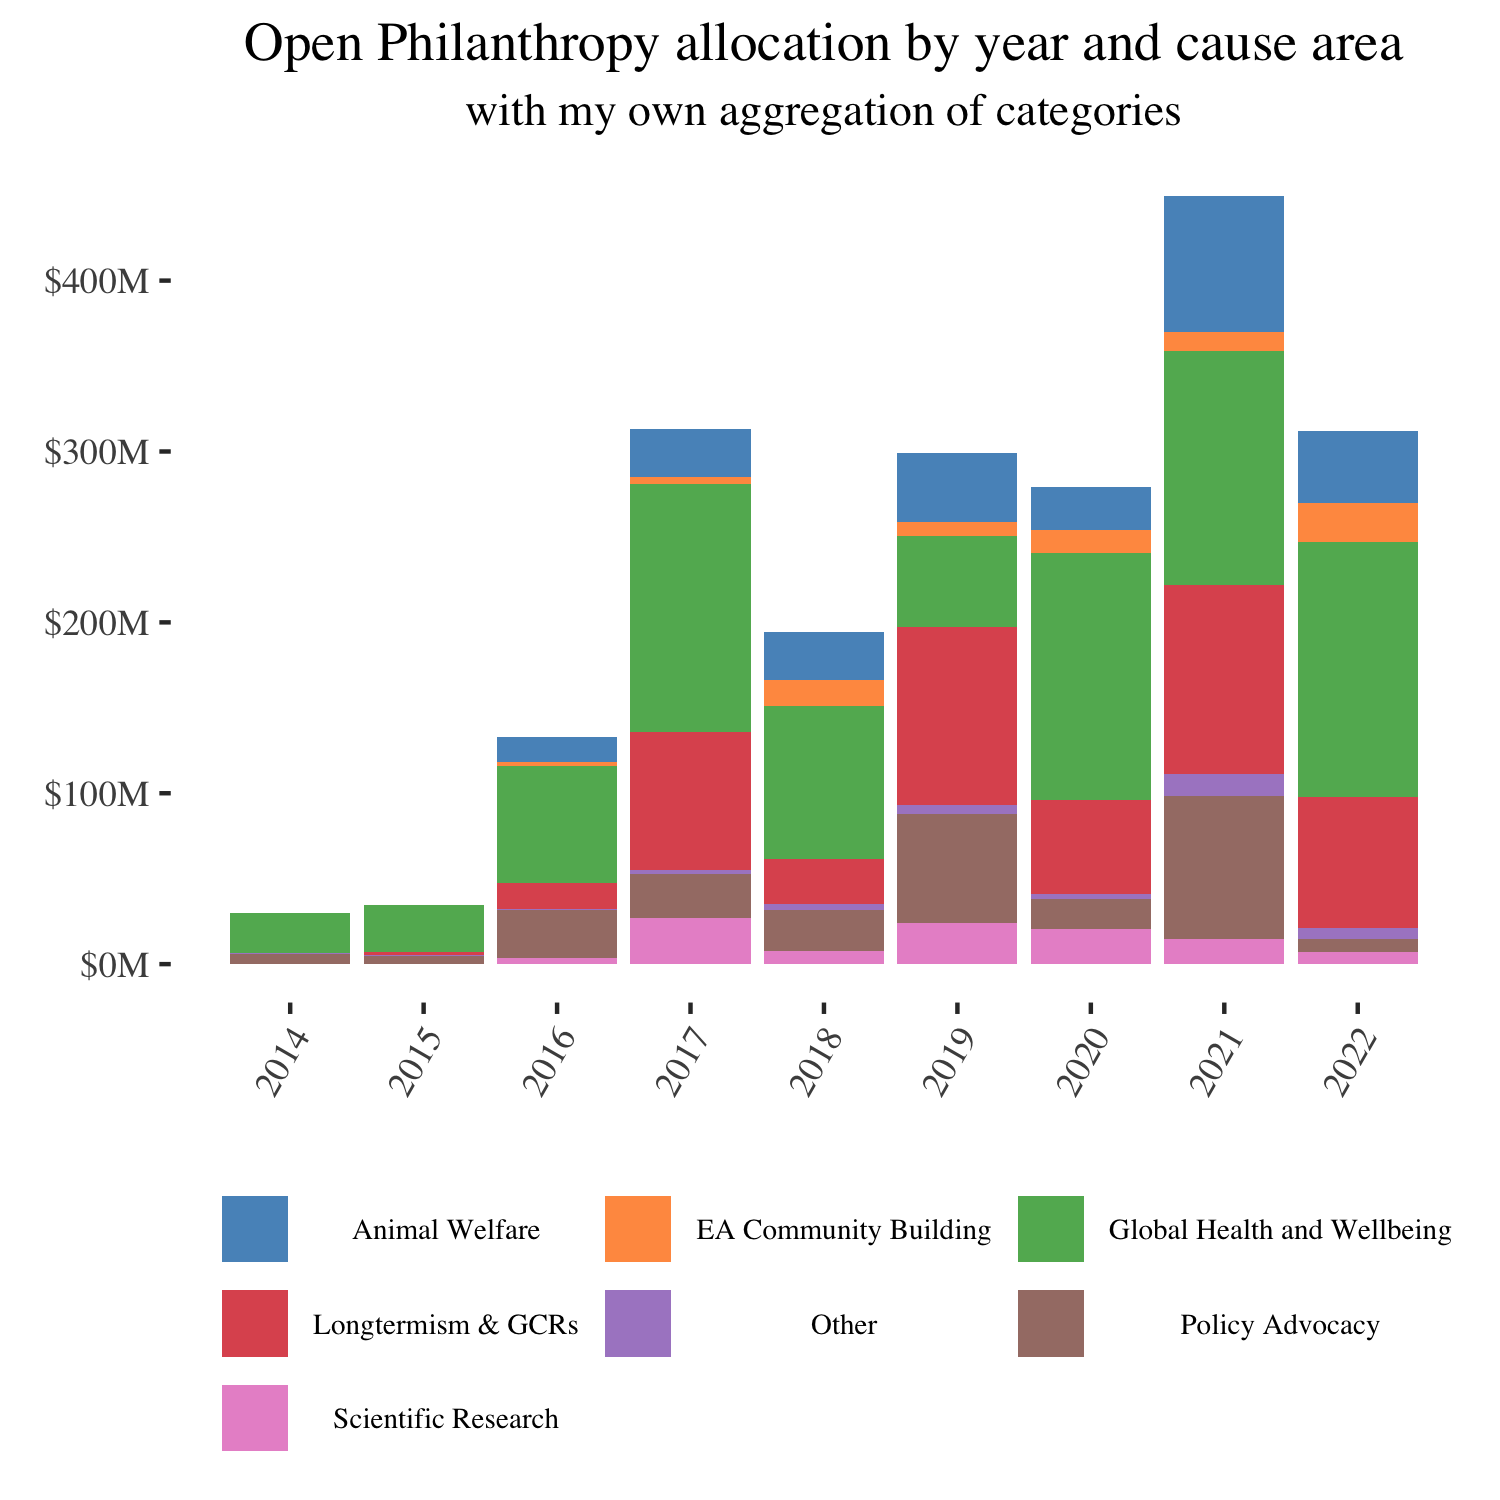
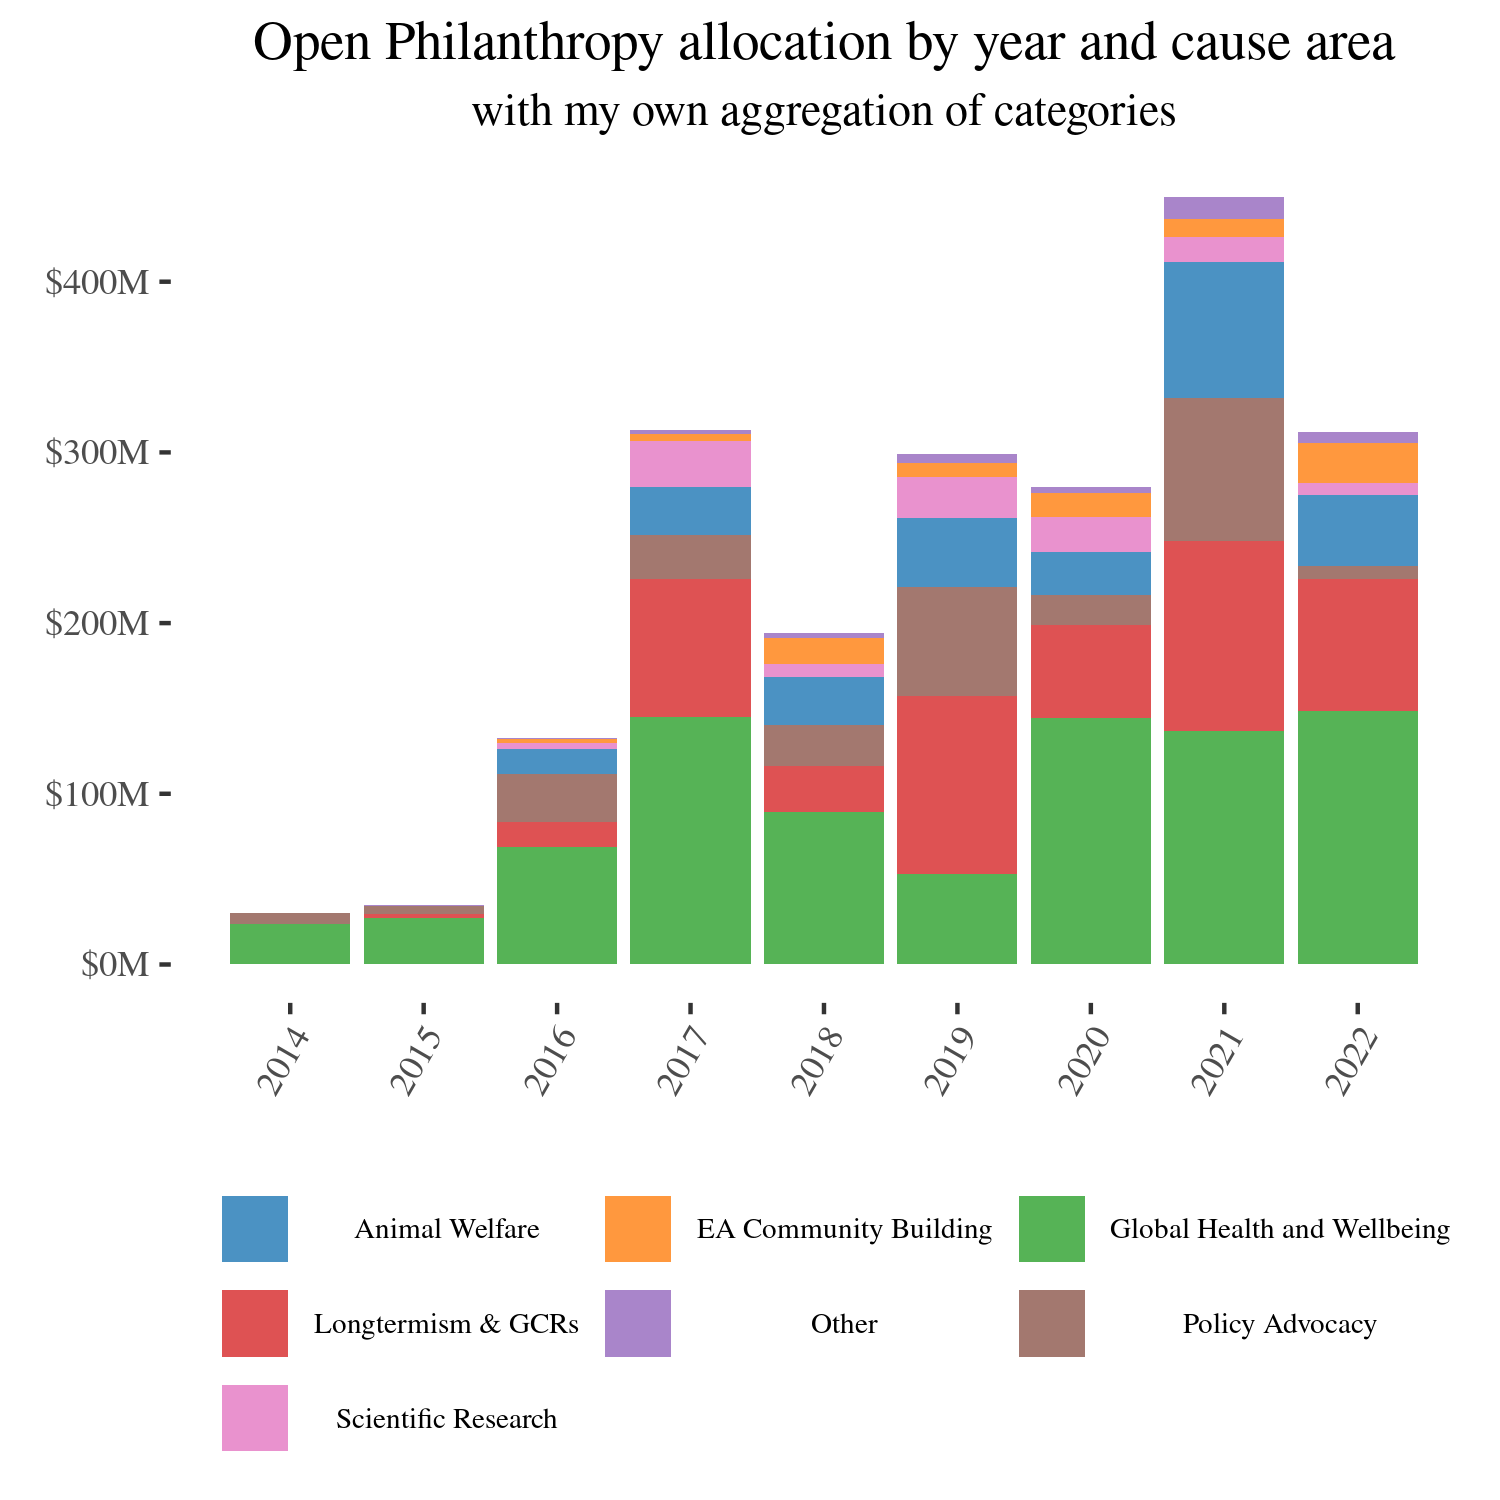
feat: change graph order to accord to cummulative spending.

diff --git a/blog/2022/11/20/brief-update-ea-funding/index.md b/blog/2022/11/20/brief-update-ea-funding/index.md
@@ -5,7 +5,7 @@ Some data on the stock of EA™ funding
 
 Open Philanthropy's allocation of funding through time looks as follows:
 
-![Bar graph of OpenPhil allocation by year. Global health leads for most years. Catastrophic risks are usually second since 2017. Overall spend increases over time.](https://i.imgur.com/RwD1pP9.png)
+![Bar graph of OpenPhil allocation by year. Global health leads for most years. Catastrophic risks are usually second since 2017. Overall spend increases over time.](https://i.imgur.com/rqwFsiN.png)
 
 Dustin Moskovitz's wealth looks, per [Bloomberg](https://www.bloomberg.com/billionaires/profiles/dustin-a-moskovitz), like this:
 
@@ -13,7 +13,7 @@ Dustin Moskovitz's wealth looks, per [Bloomberg](https://www.bloomberg.com/billi
 
 If we plot the two together, we don't see that much of a correlation:
 
-![Combination of the previous two charts. Moskovitz's fortune does not match changes in total spend or category composition.](https://i.imgur.com/NhhiLqd.png)
+![Combination of the previous two charts. Moskovitz's fortune does not match changes in total spend or category composition.](https://i.imgur.com/kCDWe8o.png)
 
 Holden Karnofsky, head of Open Philanthropy, [writes](https://forum.effectivealtruism.org/posts/mCCutDxCavtnhxhBR/some-comments-on-recent-ftx-related-events) that the Blomberg estimates might not be all that accurate:
 
@@ -29,7 +29,7 @@ In mid 2022, Forbes put Sam Bankman-Fried's wealth at [$24B](https://www.forbes.
 
 The analysis becomes a bit more interesting if we look only at longtermism and GCRs:
 
-![Bar graph of OpenPhil allocation to catastrophic risks by year. AI leads most years, followed by biosecurity.](https://i.imgur.com/OZwHMtV.png)
+![Bar graph of OpenPhil allocation to catastrophic risks by year. AI leads most years, followed by biosecurity.](https://i.imgur.com/Z2dMjfN.png)
 
 In contrast, per [Forbes](https://web.archive.org/web/20221116022228/https://fortune.com/2022/11/14/balkman-fried-ftx-collapse-threatens-effective-altruism-billions-charity-philanthropy/), the FTX Foundation had given out $160M by September 2022. My sense is that most (say, maybe 50% to 80%) of those grants went to "longtermist" cause areas, broadly defined. In addition, SBF and other FTX employees led a $580M funding round for [Anthropic](https://www.privateequitywire.co.uk/2022/05/05/314319/ftx-ceo-leads-580m-series-b-round-anthropic)
 
